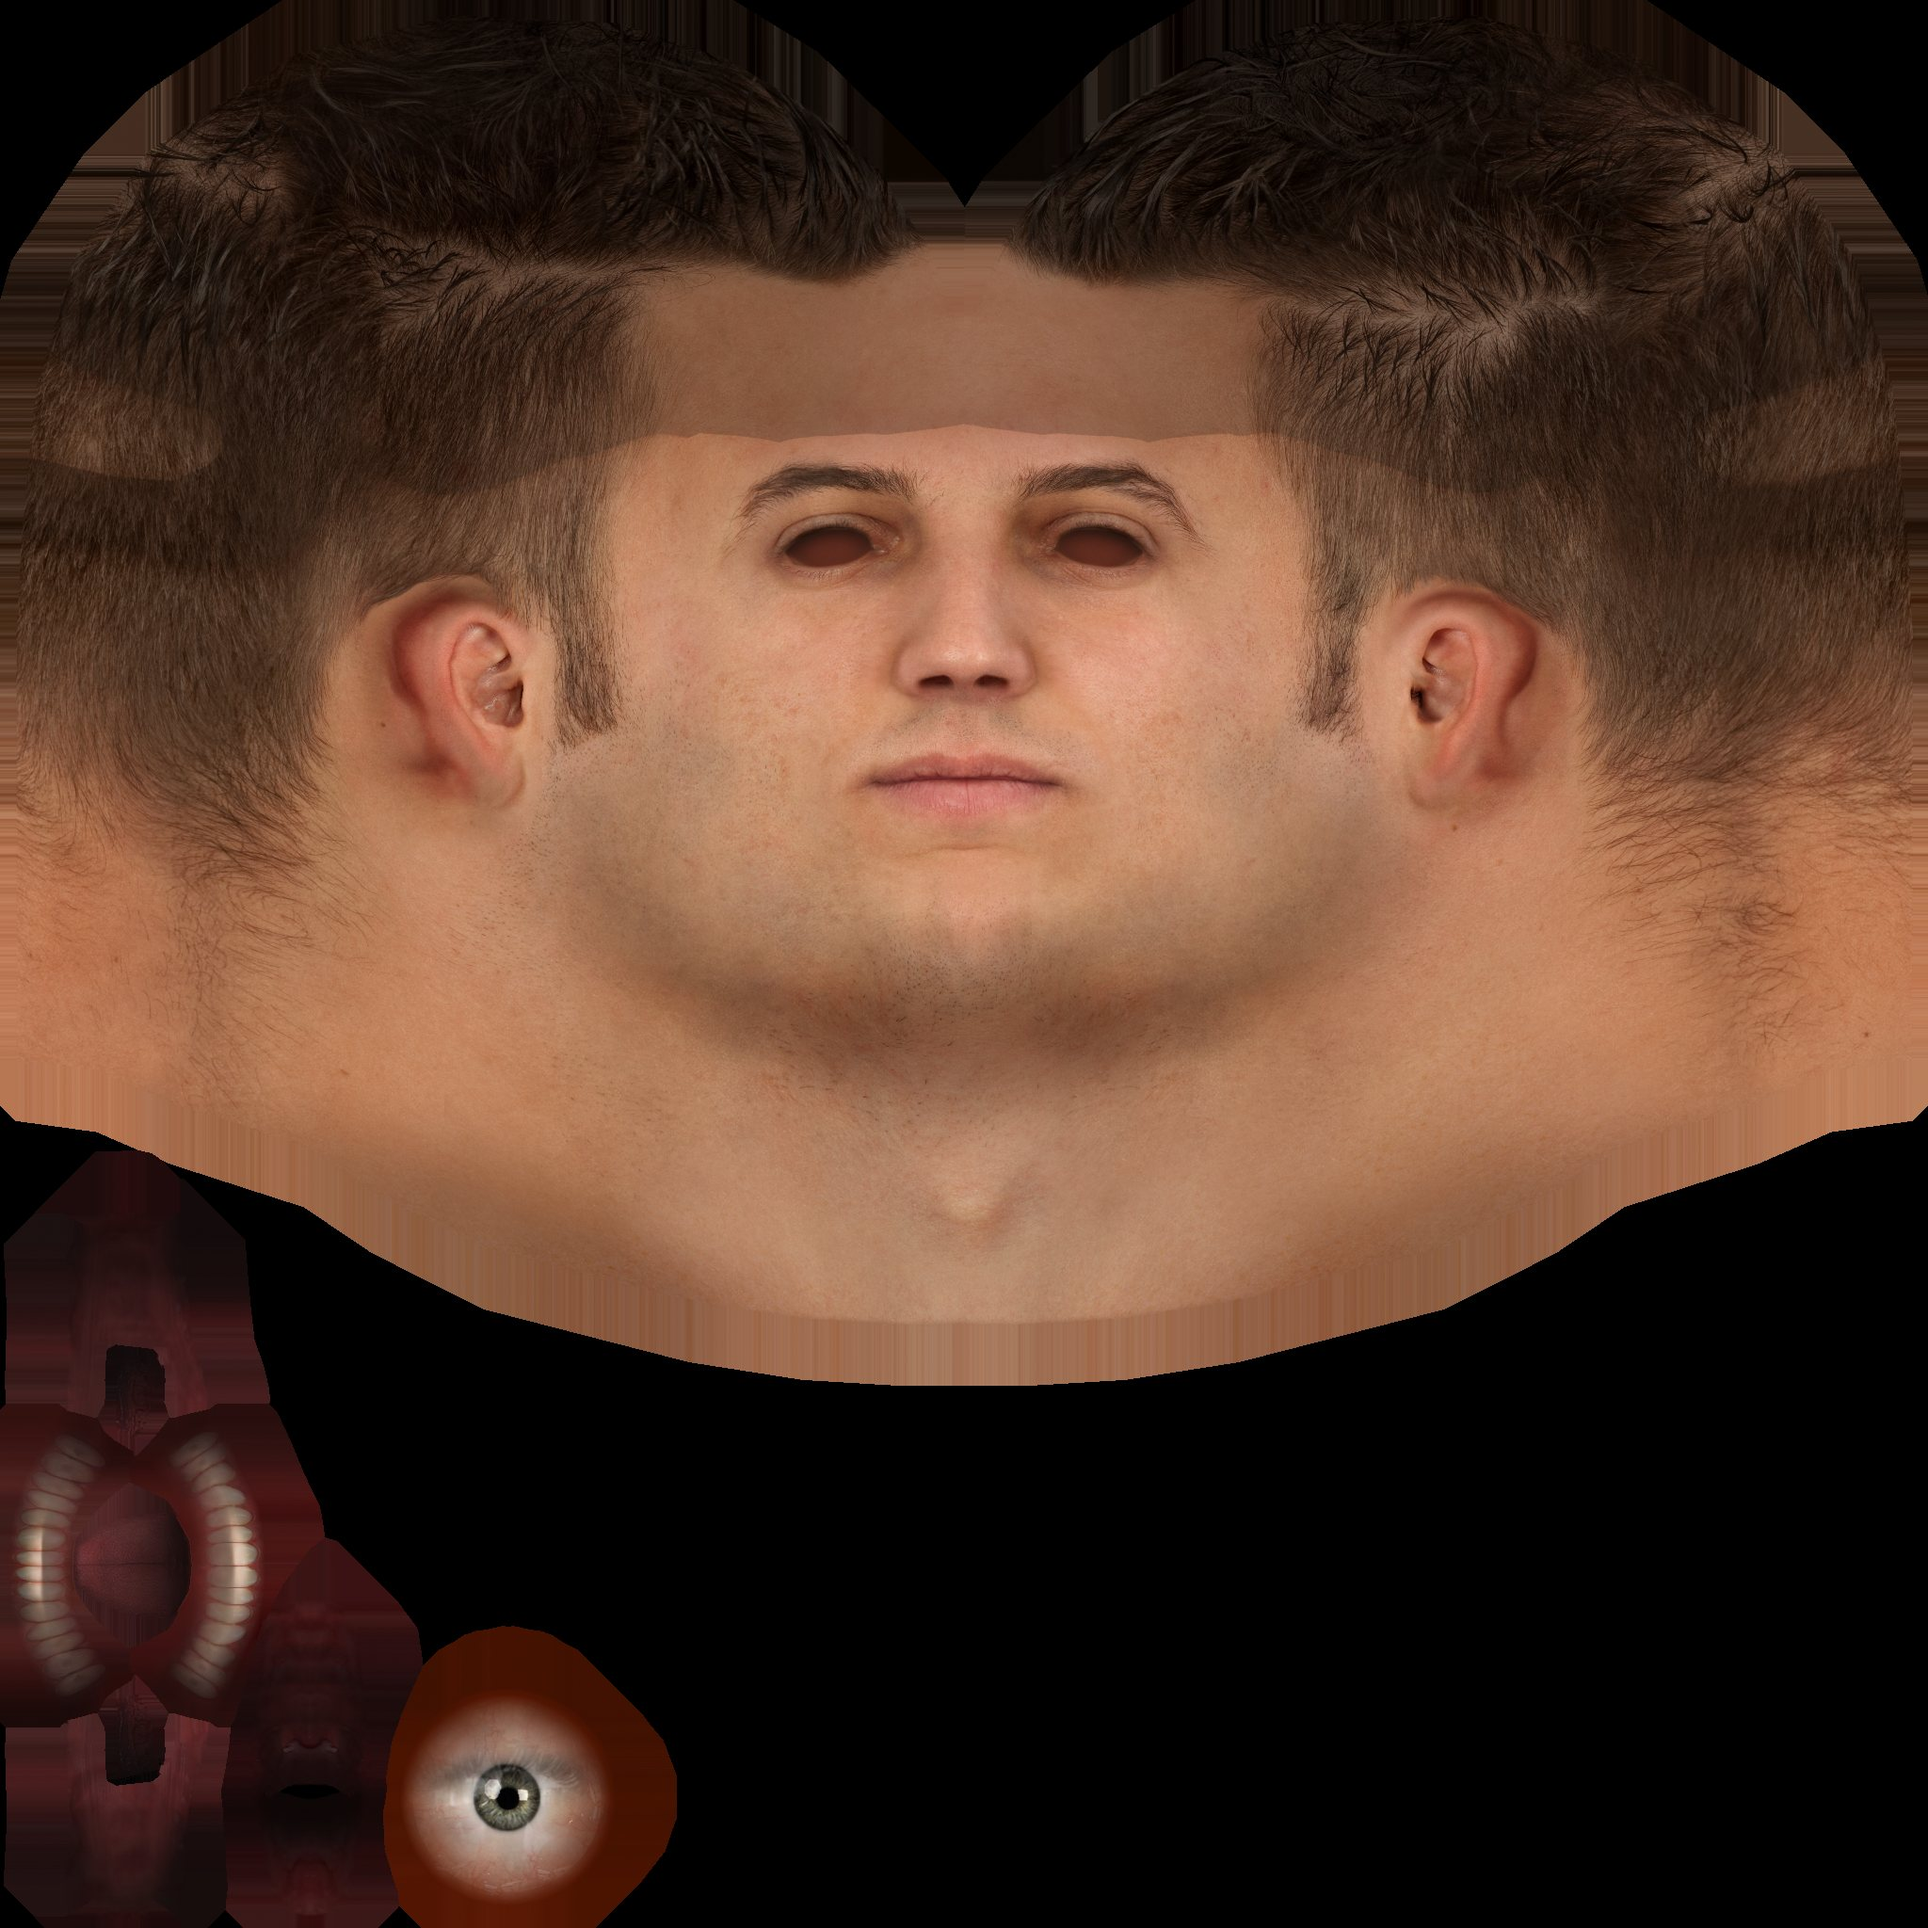
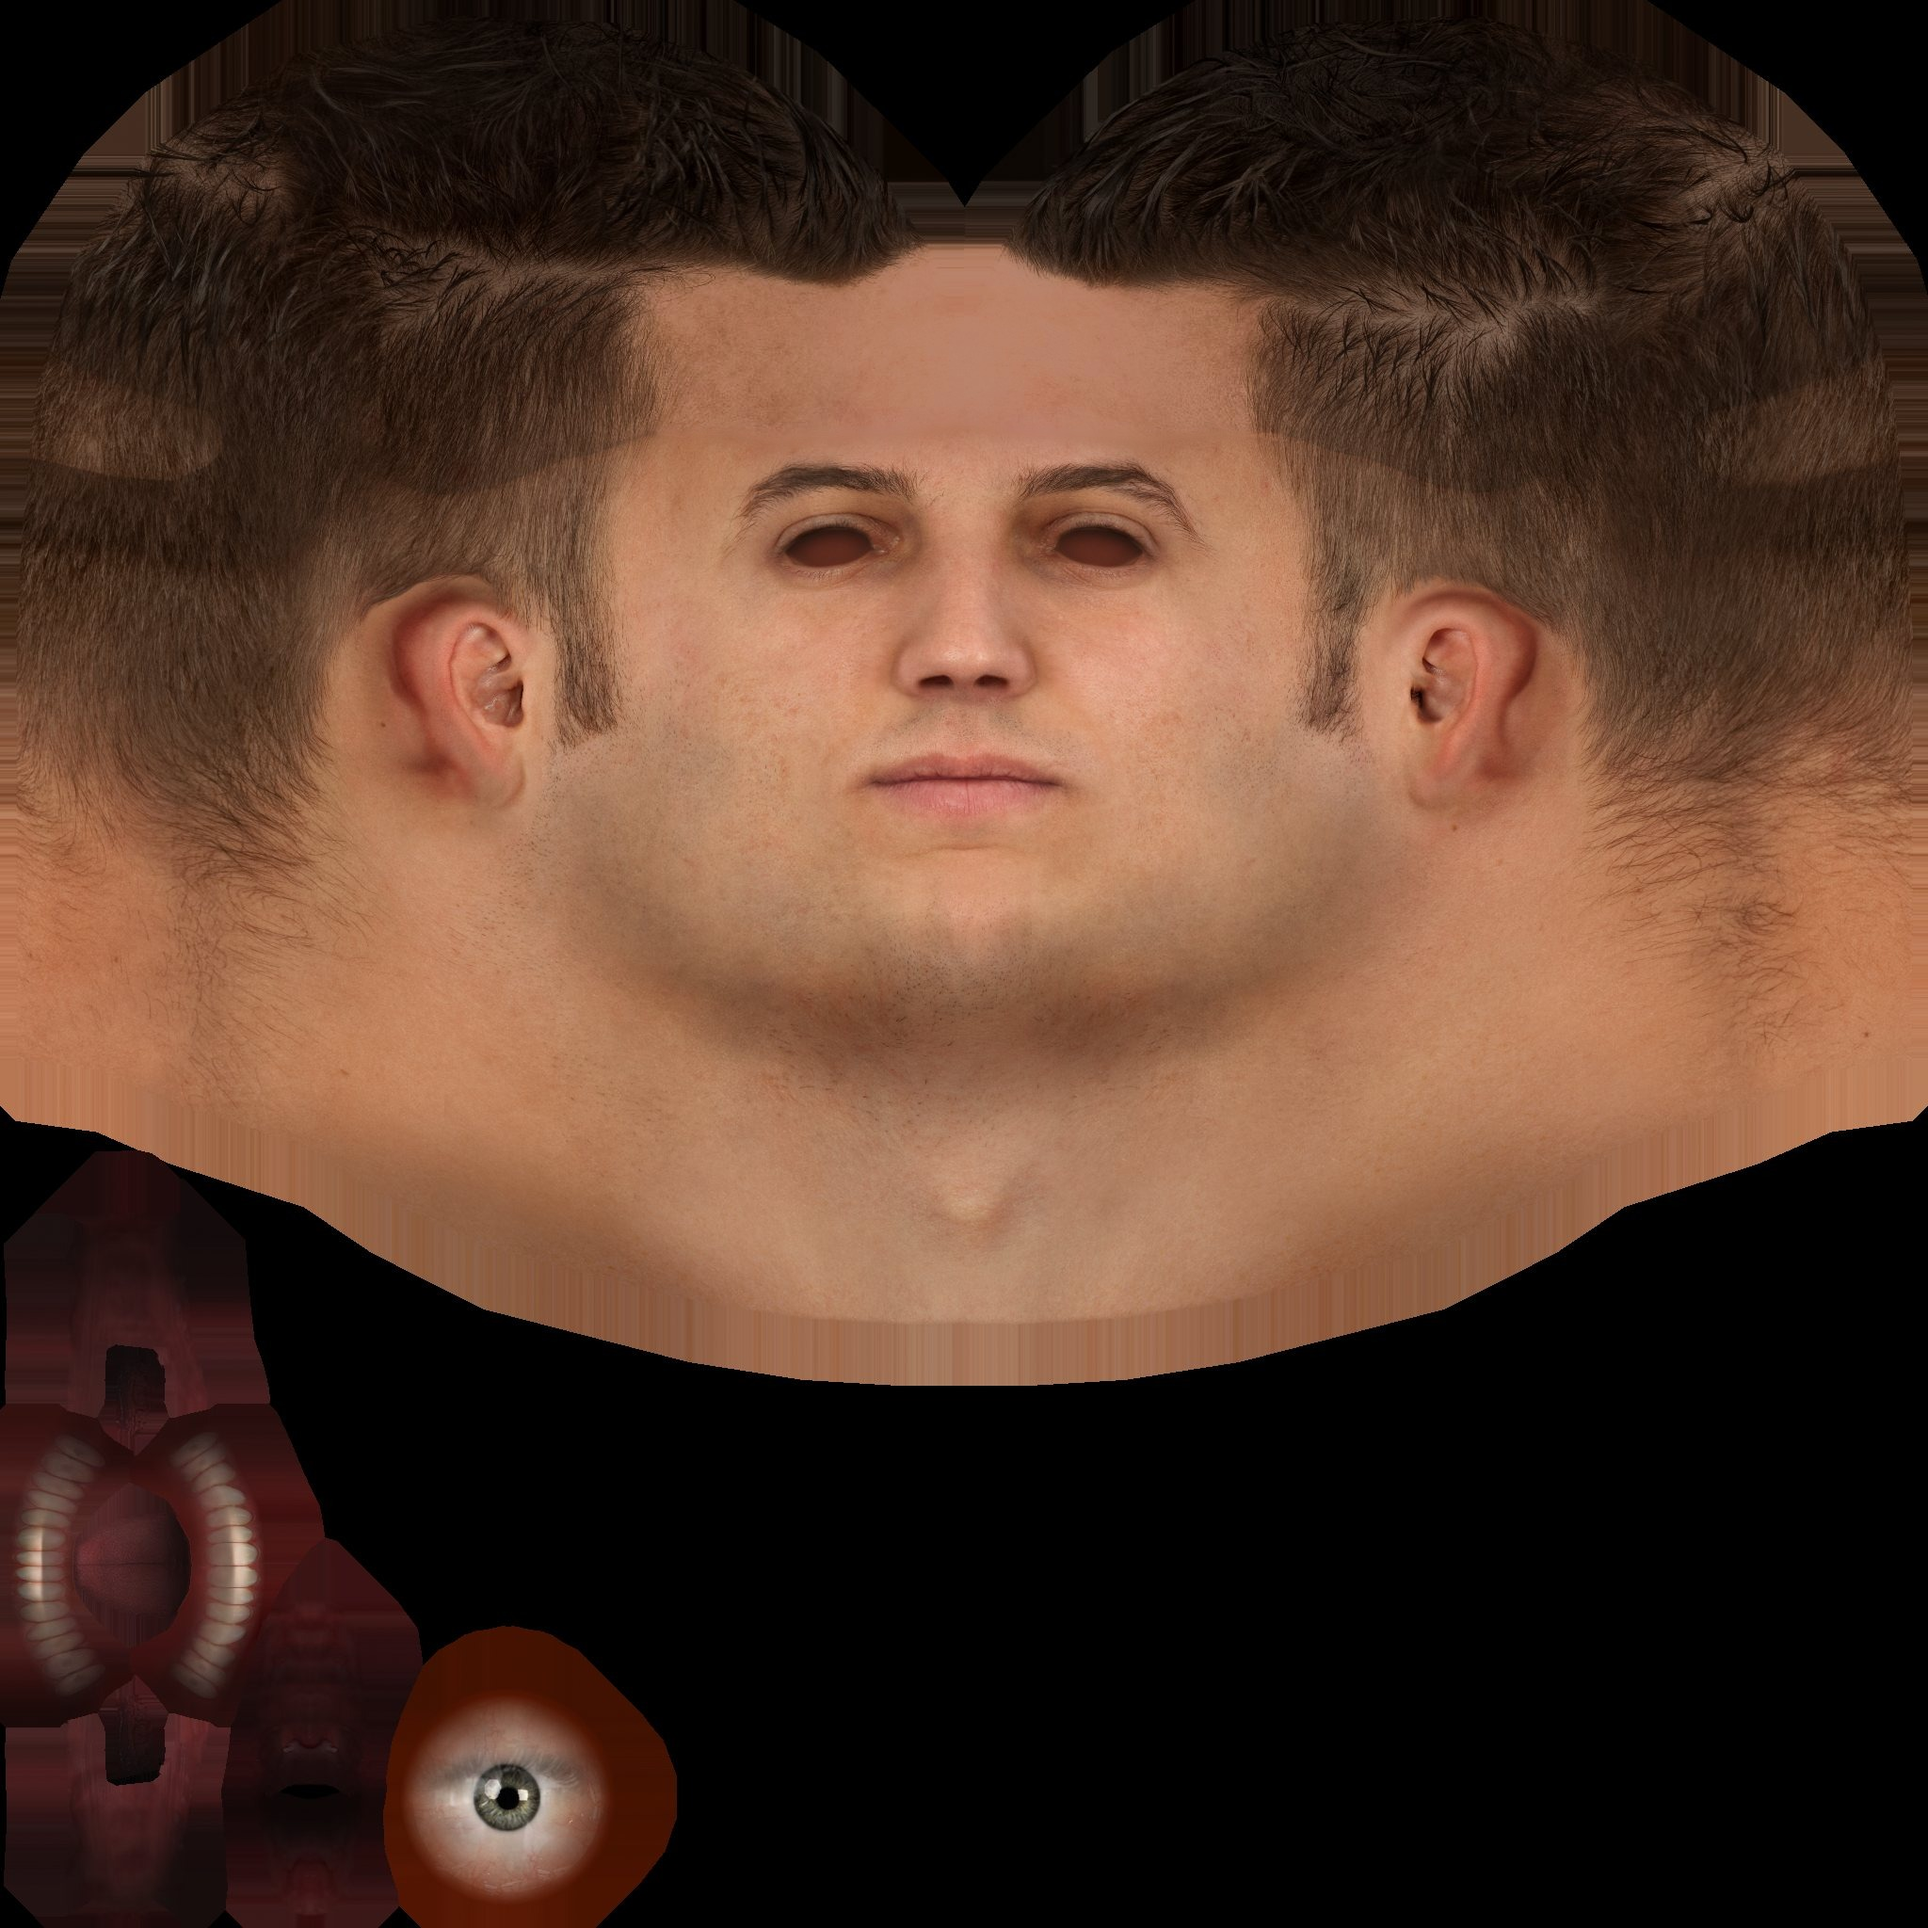
Levendiger personages: natte ogen, lagere oogleden, knipperen, warme huid, micro-expressies
- Oog- en handzones per vertex herkend; shader met glans op het oog en zachte lichtdoorval in de huid
- Oogleden volgen de blik; natuurlijk knipperen (ook dubbel en bij blikwisseling)
- Rustgezicht met lichte glimlach, ademende neusvleugels en kleine micro-expressies (geschaald met EXPRESSION)
- Warmer gezichtslicht in beide oefeningen; plafondpanelen kantine minder fel
- Band over het voorhoofd van Dennis uit de textuur verwijderd

Claude-Session: https://claude.ai/code/session_01LyQdNzFTRyB2BNNftwVhBB

Changed region(s): [[0.3125, 0.125, 0.6562, 0.25]]

diff --git a/js/human.js b/js/human.js
@@ -235,11 +235,16 @@ function liveSkin(mat, head) {
 		// Alleen huidtinten (rood > groen >= blauw, niet bijna zwart): geen mouwen of handschoenen.
 		float key = smoothstep( 0.0, 0.035, c.r - c.g ) * smoothstep( -0.012, 0.012, c.g - c.b ) * smoothstep( 0.012, 0.05, l );
 		sssMask = zone * key;
-		vec3 warm = max( mix( vec3( l ), c, 1.08 ), 0.0 ) * vec3( 1.04, 0.99, 0.95 );
+	#ifdef HUMAN_HEAD
+		vec3 warm = max( mix( vec3( l ), c, 1.06 ), 0.0 ) * vec3( 1.035, 0.99, 0.955 );
+	#else
+		// De handen in de Rocketbox-texturen zijn bleek roze: iets voller en warmer, iets donkerder.
+		vec3 warm = max( mix( vec3( l ), c, 1.22 ), 0.0 ) * vec3( 0.97, 0.88, 0.8 );
+	#endif
 		diffuseColor.rgb = mix( c, warm, sssMask );
 	#ifdef HUMAN_HEAD
 		float scl = smoothstep( 0.1, 0.32, l );
-		vec3 sclera = mix( vec3( l ), c, 0.45 ) * vec3( 0.84, 0.82, 0.8 );
+		vec3 sclera = mix( vec3( l ), c, 0.45 ) * vec3( 0.76, 0.74, 0.72 );
 		vec3 iris = max( mix( vec3( l ), c, 1.45 ), 0.0 ) * 0.62;
 		diffuseColor.rgb = mix( diffuseColor.rgb, mix( iris, sclera, scl ), eyeMask );
 	#endif
@@ -262,7 +267,7 @@ function liveSkin(mat, head) {
 			// Bovenooglid en wimpers werpen schaduw op de bovenkant van de oogbol; de randen
 			// (ooghoeken, waar de oogbol wegdraait) zijn donkerder.
 			float facing = saturate( dot( normal, normalize( vViewPosition ) ) );
-			float occ = 0.5 * smoothstep( 0.0, 0.55, normal.y ) + 0.4 * ( 1.0 - smoothstep( 0.35, 0.85, facing ) );
+			float occ = 0.6 * smoothstep( -0.05, 0.5, normal.y ) + 0.45 * ( 1.0 - smoothstep( 0.35, 0.85, facing ) );
 			diffuseColor.rgb *= 1.0 - eyeMask * min( occ, 0.75 );
 		}
 	#endif`,
@@ -755,7 +760,7 @@ export class Human {
       this.inhale(tr.b[sp.bi][1] * 0.7);
       // Soms kort wegkijken bij een pauze, zoals mensen doen als ze nadenken.
       if (Math.random() < 0.45) {
-        if (Math.random() < 0.5 && this.blink <= 0) this.blink = BLINK;
+        if (Math.random() < 0.5 && this._canBlink()) this.blink = BLINK;
         this.glanceT = 0.45 + Math.random() * 0.4;
         this.glanceDir.set((Math.random() < 0.5 ? -1 : 1) * (0.25 + Math.random() * 0.2), -0.12 - Math.random() * 0.1);
       }
@@ -926,7 +931,7 @@ export class Human {
     if (target) {
       this.bones.head.getWorldPosition(_v);
       const dir = _v2.copy(target).sub(_v).normalize();
-      if (this._gazeDir && this._gazeDir.dot(dir) < 0.94 && this.blink <= 0 && Math.random() < 0.75) this.blink = BLINK;
+      if (this._gazeDir && this._gazeDir.dot(dir) < 0.94 && this._canBlink() && Math.random() < 0.75) this.blink = BLINK;
       (this._gazeDir ||= new THREE.Vector3()).copy(dir);
     }
     if (t && this.lookW > 0.01 && this.torsoFollow > 0) {
@@ -1207,7 +1212,10 @@ export class Human {
       const busy = speaking || A > 0.5;
       this.blinkT = Math.random() < 0.14 ? BLINK + 0.12 : (busy ? 1.4 : 2.2) + Math.random() * (busy ? 2.6 : 3.8);
     }
-    if (this.blink > (this._blinkPrev || 0)) this._blinkDur = this.blink;
+    if (this.blink > (this._blinkPrev || 0)) {
+      this._blinkDur = this.blink;
+      this._blinkAt = this.time;
+    }
     this.blink = Math.max(0, this.blink - dt);
     this._blinkPrev = this.blink;
     const u = this.blink > 0 ? 1 - this.blink / (this._blinkDur || BLINK) : 1;
@@ -1221,6 +1229,11 @@ export class Human {
     );
     set('blinkL', lid + (1 - lid) * b);
     set('blinkR', lid + (1 - lid) * Math.min(1, b * 1.04));
+  }
+
+  // Extra knipper (bij wegkijken) alleen als hij niet net al knipperde.
+  _canBlink() {
+    return this.blink <= 0 && this.time - (this._blinkAt ?? -9) > 0.9;
   }
 
   // Levendigheid in rust: wat een gezicht doet als het "niets" doet.

diff --git a/README.md b/README.md
@@ -135,7 +135,7 @@ Nabespreking ── dezelfde 4 kaartjes als in Bijna geraakt. Geen punten.
 | Gedeeld raamwerk: camera, ondertitels, keuze, nabespreking, talen, VR | `js/sim.js` |
 | Magazijn (stellingen, borden, vloermarkering) | `js/world.js` |
 | Kantine (tafels, stoelen, toonbank, ramen, licht) | `js/canteen.js` |
-| Personages (animaties, kijken, wijzen, zitten, lachen, gezicht, lipsync) | `js/human.js` |
+| Personages (animaties, kijken, wijzen, zitten, lachen, gezicht, lipsync, knipperen, huid en ogen) | `js/human.js` |
 | 3D-modellen, texturen en gebakken animaties | `models/` |
 | Heftruck | `js/forklift.js` |
 | Geluidseffecten, ruimtelijk geluid en galm | `js/audio.js` |
